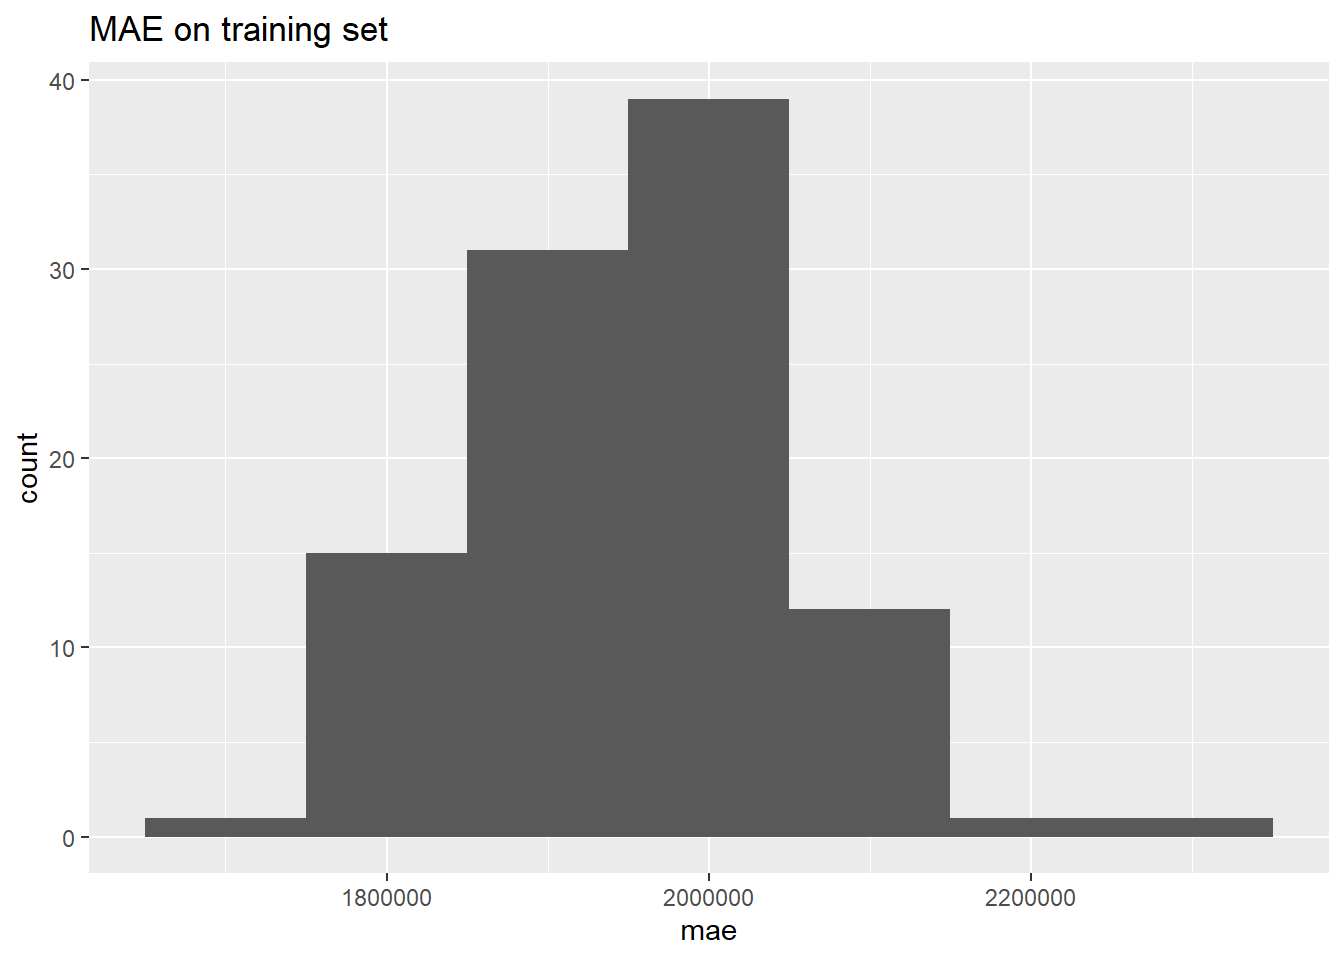
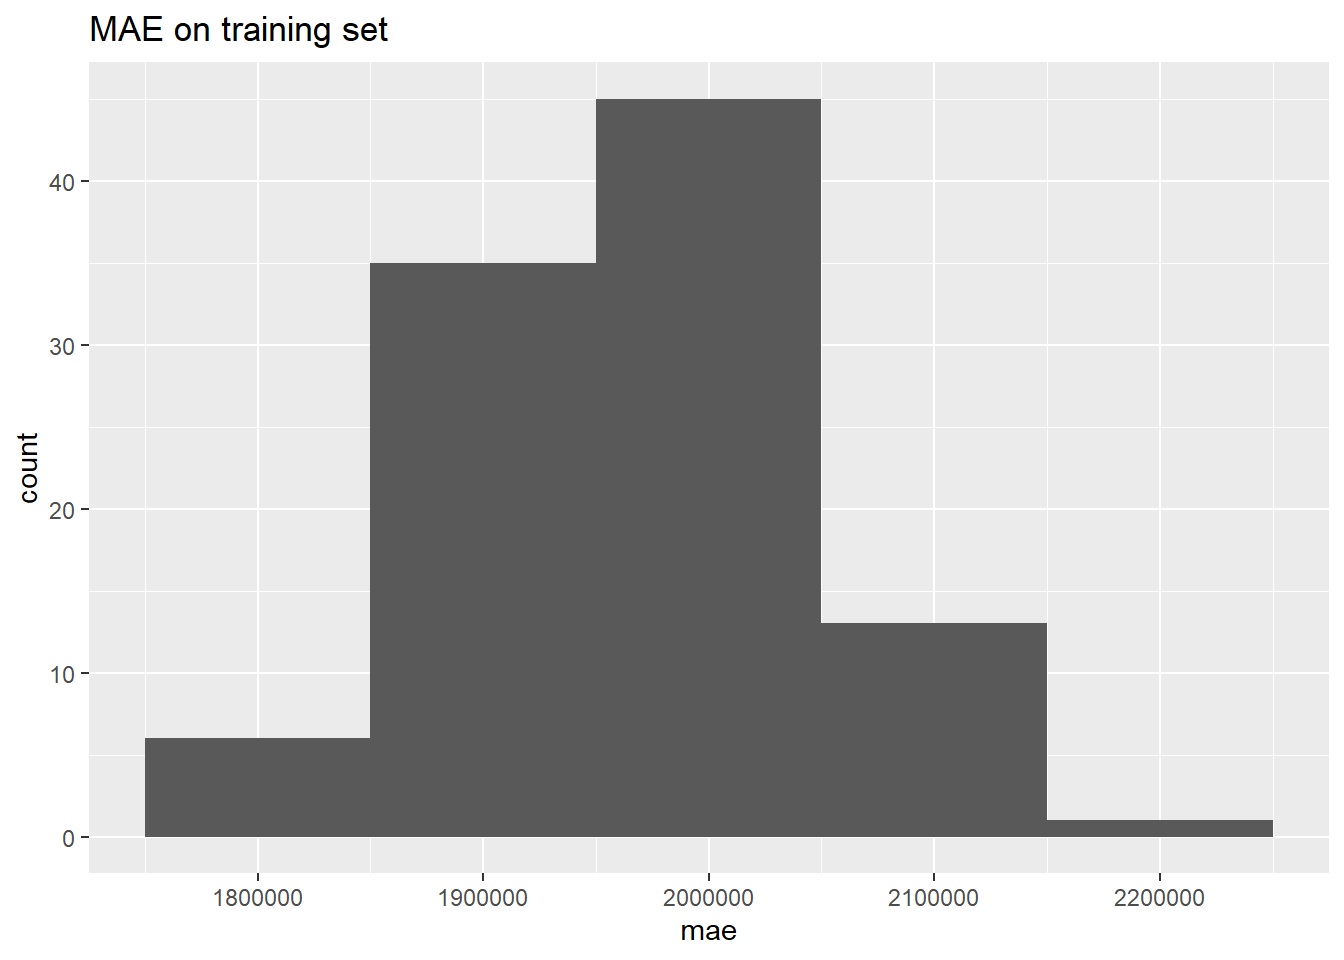
Added problems and clustering method example to end of NBA salary

diff --git a/content/post/2020-09-30-nba-salary-estimation.en.html b/content/post/2020-09-30-nba-salary-estimation.en.html
@@ -115,7 +115,7 @@ rmse
 standard
 </td>
 <td style="text-align:right;">
-6.526161e+06
+6.821924e+06
 </td>
 </tr>
 <tr>
@@ -126,7 +126,7 @@ rsq
 standard
 </td>
 <td style="text-align:right;">
-6.024526e-01
+5.328346e-01
 </td>
 </tr>
 <tr>
@@ -137,7 +137,7 @@ mae
 standard
 </td>
 <td style="text-align:right;">
-5.256946e+06
+5.073639e+06
 </td>
 </tr>
 </tbody>
@@ -174,7 +174,7 @@ rmse
 standard
 </td>
 <td style="text-align:right;">
-2.580246e+06
+2.517985e+06
 </td>
 </tr>
 <tr>
@@ -185,7 +185,7 @@ rsq
 standard
 </td>
 <td style="text-align:right;">
-9.527626e-01
+9.517036e-01
 </td>
 </tr>
 <tr>
@@ -196,7 +196,7 @@ mae
 standard
 </td>
 <td style="text-align:right;">
-1.902528e+06
+1.912592e+06
 </td>
 </tr>
 </tbody>
@@ -259,18 +259,18 @@ calc_rf_results = function(dataset) {
 <p>We examine the best and worse case scenarios from the simulation.</p>
 <pre class="r"><code>mae_diff = test_metrics$mae - train_metrics$mae
 mae_diff[which.min(mae_diff)]</code></pre>
-<pre><code>## [1] 956022.1</code></pre>
-<p>In the best case, the MAE on the test set is 9.560221410^{5} more than the training set MAE.</p>
+<pre><code>## [1] 1787587</code></pre>
+<p>In the best case, the MAE on the test set is 1.787586610^{6} more than the training set MAE.</p>
 <pre class="r"><code>mae_diff[which.max(mae_diff)]</code></pre>
-<pre><code>## [1] 4395742</code></pre>
-<p>In the worst case, the MAE on the test set is 4.39574210^{6} more than the training set MAE.</p>
+<pre><code>## [1] 4367172</code></pre>
+<p>In the worst case, the MAE on the test set is 4.367171510^{6} more than the training set MAE.</p>
 <pre class="r"><code>colMeans(test_metrics)</code></pre>
 <pre><code>##         rmse          rsq          mae 
-## 6.404734e+06 5.330805e-01 4.848531e+06</code></pre>
+## 6.398542e+06 5.562743e-01 4.883149e+06</code></pre>
 <pre class="r"><code>colMeans(train_metrics)</code></pre>
 <pre><code>##         rmse          rsq          mae 
-## 2.607140e+06 9.508443e-01 1.954856e+06</code></pre>
-<p>If you did Pipkin’s analysis, I would expect you to claim a player from the test set is being overpaid or underpaid by an additional 2.893675510^{6} simply because he is in the test set. In other words, you would claim larger errors simply due to chance. This is bad, so I would like to prevent this.</p>
+## 2.629864e+06 9.491286e-01 1.967134e+06</code></pre>
+<p>If you did Pipkin’s analysis, I would expect you to claim a player from the test set is being overpaid or underpaid by an additional 2.916014710^{6} simply because he is in the test set. In other words, you would claim larger errors simply due to chance. This is bad, so I would like to prevent this.</p>
 <ol start="2" style="list-style-type: decimal">
 <li>(less important) He used a random forest.</li>
 </ol>
@@ -1943,7 +1943,22 @@ Cody Zeller01
 </tbody>
 </table>
 </div>
+<div id="problems" class="section level2">
+<h2>Problems</h2>
+<ul>
+<li><p>Lack of tuning. <code>k</code>= 5 is arbitrary, so I would like to be able to tune it. But tuning based on accuracy would be bad IMO because it presents the actual values as ground truth (i.e. what people <em>should</em> be paid): this is actually the opposite of what we are claiming with this analysis.</p></li>
+<li><p>A different model for each observation. AFAIK, this is non-standard: usually, you would have one model, and that model would be flexible if you wanted to account for variation in observations. Even if multiple models were used, using a different model for each observation definitely seems extreme. However, removing one observation from the training set shouldn’t make a large difference in the model. Furthermore, the adjustment has an obvious benefit here because it prevents the problem of using the observation’s own response value as a nearest neighbor.</p></li>
+<li><p>Re-predicting on the training set. Despite all of the adjustments we’ve made, I’m still concerned that we’re fitting noise here.</p></li>
+</ul>
+</div>
 <div id="conclusion" class="section level2">
 <h2>Conclusion</h2>
 <p>It’s possible that my method is terrible too (if you think it is, please let me know!). But the thing I want to emphasize: if you know you want to re-predict on your training set, DO NOT perform a “test-train” split on your training set.</p>
+</div>
+<div id="spitballing-a-way-to-tune-k-without-looking-at-the-response-value" class="section level2">
+<h2>Spitballing: a way to tune k without looking at the response value?</h2>
+<p>Cluster the players. Use their cluster memberships to determine the value of <code>k</code> for k-nn regression.</p>
+<p>Suppose a player is in cluster 1. Its distance to the cluster mean is 2. Cluster 1 has 5 players.</p>
+<p>The next-closest cluster mean is cluster 2. Its distance to the cluster mean is 4. Cluster 2 has 10 players.</p>
+<p><span class="math display">\[k_{player}\]</span> = 5 * (4 / (2 + 4)) + 10 * (2 / (2 + 4))</p>
 </div>
